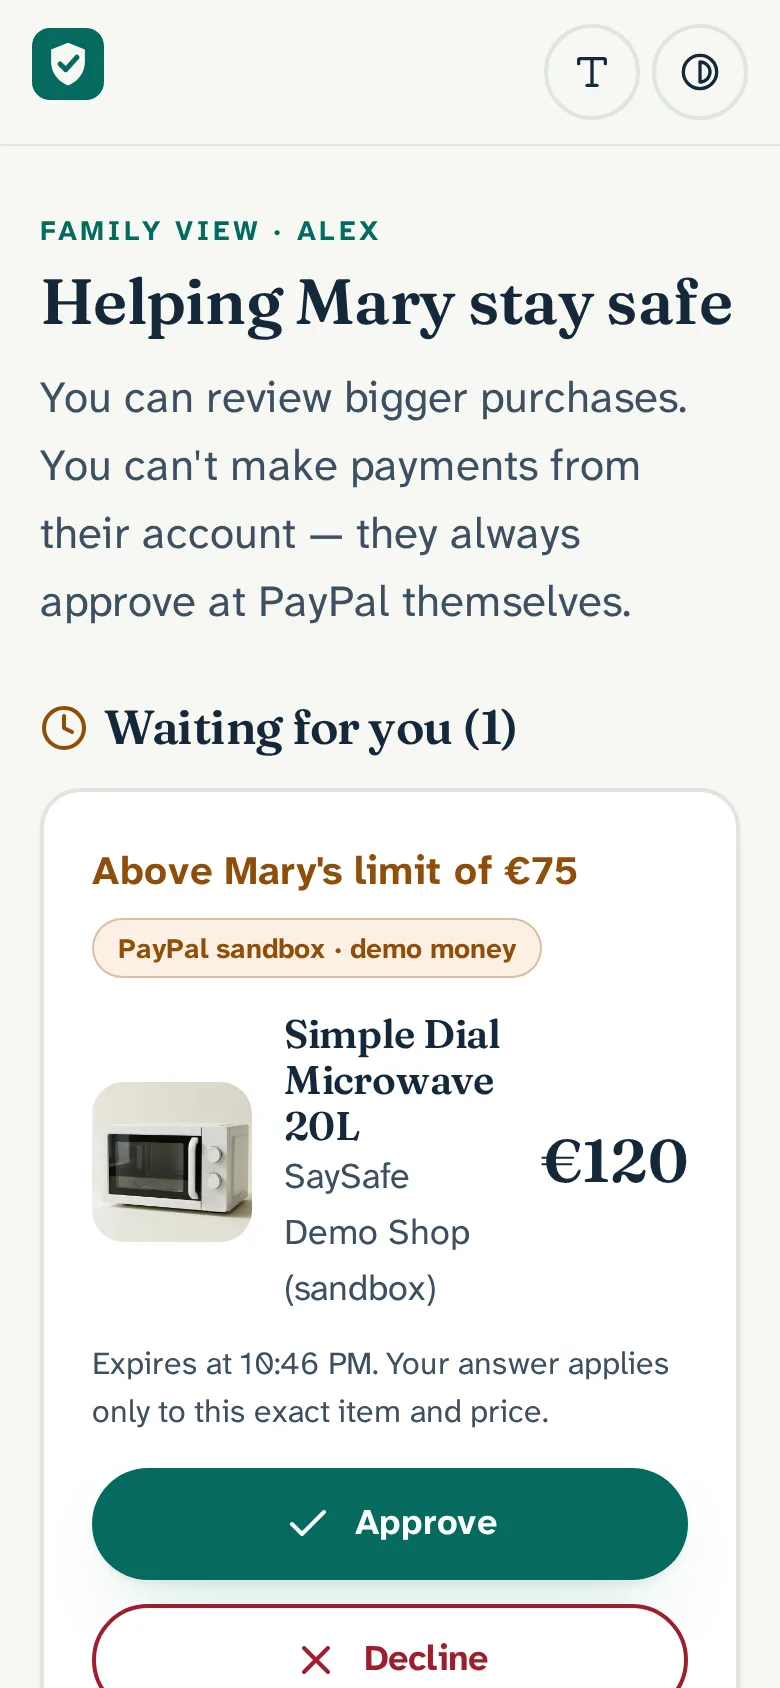
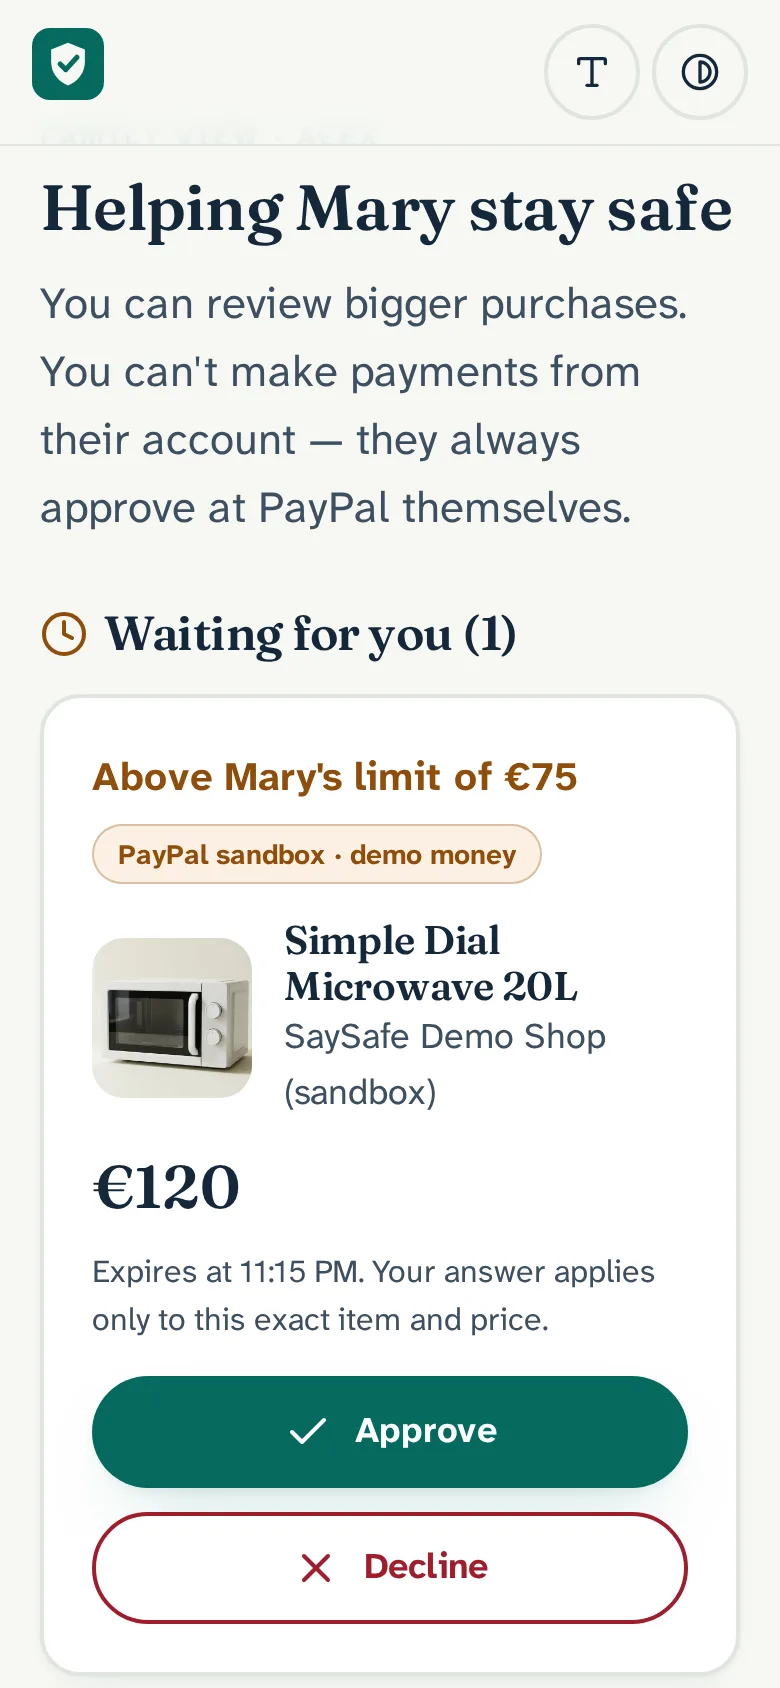
Landing: mobile family showcase (numbered labels above phones, tighter spacing, full Approve/Decline in frame), scroll-padding so the sticky header never hides content; landing QA script

Changed region(s): [[0.0308, 0.0924, 0.9538, 1.0], [0.6769, 0.6777, 0.8923, 0.7085], [0.7077, 0.7393, 0.8308, 0.7701]]

diff --git a/web/src/pages/Welcome.tsx b/web/src/pages/Welcome.tsx
@@ -128,7 +128,7 @@ export default function Welcome() {
 
       {/* Showcase 2: Family */}
       <Showcase id="family" dark flip eyebrow="While you pay · Get trusted help" title="Bigger purchases wait for someone you trust."
-        screens={[{ src: '/screens/family-waiting.webp', alt: 'Mary’s screen: Waiting for family, Simple Dial Microwave 20L, €120, with a Cancel this purchase button.', cap: 'Mary’s phone' }, { src: '/screens/family-request.webp', alt: 'Family member Alex’s screen: Above Mary’s limit of €75, the microwave for €120, with Approve and Decline buttons.', cap: 'Alex’s phone' }]}>
+        screens={[{ src: '/screens/family-waiting.webp', alt: 'Mary’s screen: Waiting for family, Simple Dial Microwave 20L, €120, with a Cancel this purchase button.', cap: 'Mary’s phone: waiting' }, { src: '/screens/family-request.webp', alt: 'Family member Alex’s screen: Above Mary’s limit of €75, the microwave for €120, with Approve and Decline buttons.', cap: 'Alex’s phone: approves' }]}>
         <p>Over Mary’s limit, SaySafe sends her family the exact item, shop and price. The answer applies only to that purchase and expires. Mary still approves at PayPal herself, so nobody can pay for her.</p>
       </Showcase>
 
@@ -214,17 +214,18 @@ function Phone({ src, alt }: { src: string; alt: string }) {
 function Showcase({ id, eyebrow, title, children, screens, dark, flip }: { id: string; eyebrow: string; title: string; children: ReactNode; screens: { src: string; alt: string; cap?: string }[]; dark?: boolean; flip?: boolean }) {
   return (
     <section aria-labelledby={id} className={dark ? 'bg-navy text-white' : ''}>
-      <div className="wrap py-20 md:py-28 grid lg:grid-cols-12 gap-12 lg:gap-16 items-center reveal">
+      <div className="wrap py-14 sm:py-20 md:py-28 grid lg:grid-cols-12 gap-8 sm:gap-12 lg:gap-16 items-center reveal">
         <div className={`${screens.length > 1 ? 'lg:col-span-5' : 'lg:col-span-6'} ${flip ? 'lg:order-2' : ''} ${dark ? '[&_.link]:!text-white' : ''}`}>
           <p className={`eyebrow ${dark ? '!text-teal-soft' : ''}`}>{eyebrow}</p>
           <h2 id={id} className={`display-2 mt-3 ${dark ? 'text-white' : ''}`}>{title}</h2>
-          <div className={`mt-6 text-xl leading-relaxed max-w-[52ch] ${dark ? 'text-white/90' : 'text-ink-soft'}`}>{children}</div>
+          <div className={`mt-4 sm:mt-6 text-lg sm:text-xl leading-relaxed max-w-[52ch] ${dark ? 'text-white/90' : 'text-ink-soft'}`}>{children}</div>
         </div>
-        <div className={`${screens.length > 1 ? 'lg:col-span-7 flex flex-col sm:flex-row items-center sm:items-start' : 'lg:col-span-6 flex'} justify-center gap-8 sm:gap-6 ${flip ? 'lg:order-1' : ''}`}>
-          {screens.map((s) => (
-            <figure key={s.src} className={screens.length > 1 ? 'w-[86%] sm:w-1/2 max-w-[21rem]' : 'w-[86%] max-w-[22rem]'}>
+        <div className={`${screens.length > 1 ? 'lg:col-span-7 grid grid-cols-1 sm:grid-cols-2 justify-items-center items-start' : 'lg:col-span-6 flex justify-center'} gap-8 sm:gap-6 ${flip ? 'lg:order-1' : ''}`}>
+          {screens.map((s, i) => (
+            <figure key={s.src} className={screens.length > 1 ? 'w-[90%] sm:w-full max-w-[20rem] sm:max-w-[21rem]' : 'w-[84%] max-w-[22rem]'}>
+              {screens.length > 1 && s.cap && <figcaption className={`mb-3 flex items-center justify-center gap-2 text-base font-bold ${dark ? 'text-white' : 'text-ink'}`}><span aria-hidden className={`grid size-7 place-items-center rounded-full text-sm ${dark ? 'bg-white text-navy' : 'bg-navy text-white'}`}>{i + 1}</span>{s.cap}</figcaption>}
               <Phone src={s.src} alt={s.alt} />
-              {s.cap && <figcaption className={`mt-3 text-center text-base font-bold ${dark ? 'text-white/85' : 'text-ink-soft'}`}>{s.cap}</figcaption>}
+              {screens.length === 1 && s.cap && <figcaption className={`mt-3 text-center text-base font-bold ${dark ? 'text-white/85' : 'text-ink-soft'}`}>{s.cap}</figcaption>}
             </figure>
           ))}
         </div>

diff --git a/web/src/index.css b/web/src/index.css
@@ -81,7 +81,7 @@ main:focus, main:focus-visible { outline: none; }
 }
 
 /* ---------- Landing (public) ---------- */
-html { scroll-behavior: smooth; }
+html { scroll-behavior: smooth; scroll-padding-top: 6rem; } /* sticky header never hides an anchor or focused element */
 .wrap { width: 100%; max-width: 80rem; margin-inline: auto; padding-inline: 1.25rem; }
 @media (min-width: 768px) { .wrap { padding-inline: 2.5rem; } }
 .eyebrow { color: var(--color-teal); font-weight: 700; text-transform: uppercase; letter-spacing: .14em; font-size: .9375rem; }
